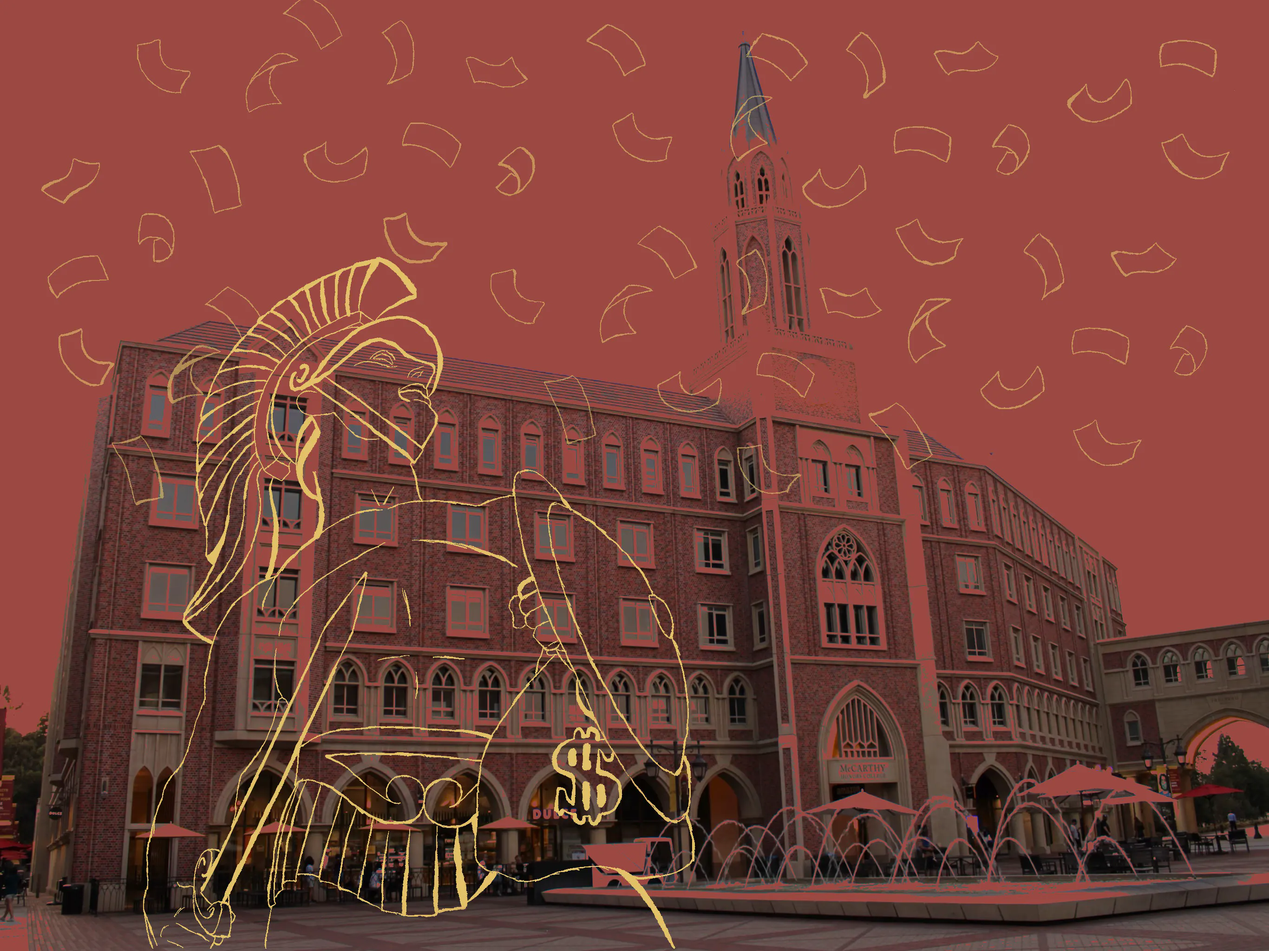
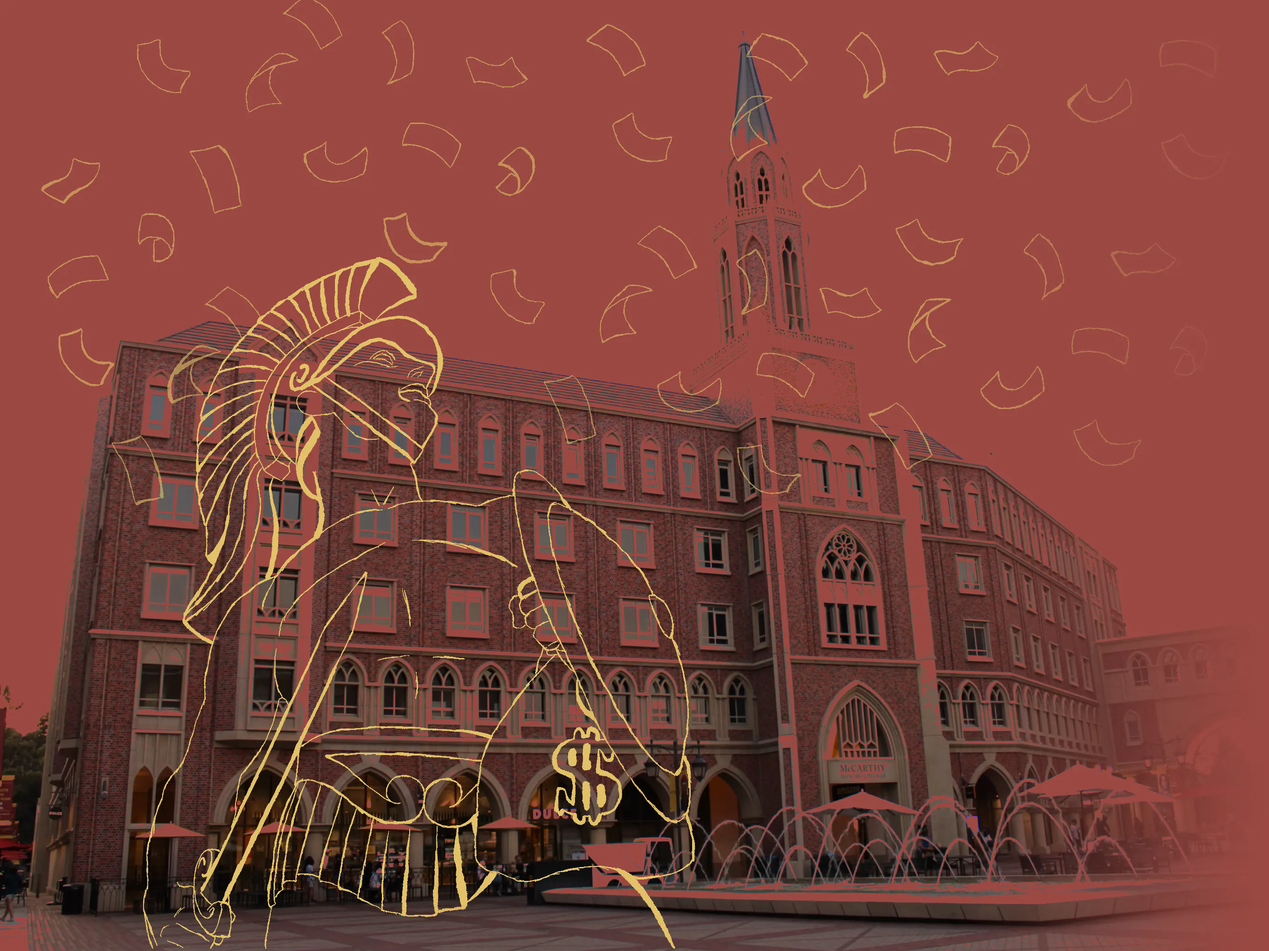
Use picture element for Tommy. Also WEBP

Changed region(s): [[0.8089, 0.5625, 1.0, 1.0]]

diff --git a/index.html b/index.html
@@ -34,7 +34,12 @@
 
 <body>
 
-	<header style='background-size: auto 100vh;background-image: url("img/tommy_village_WEB.jpg");'>
+	<header>
+		<picture>
+			<source srcset="img/tommy_village_WEB.webp" type="image/webp"/>
+			<source srcset="img/tommy_village_WEB.jpg" type="image/jpeg"/>
+			<img src="img/tommy_village_WEB.jpg">
+		</picture>
 		<section class="interactive_lede">
 			<div class="title1">
 				<h1>Tracking Tuition</h1>
@@ -71,11 +76,10 @@
 			$791,502,378</title></rect><text x="16" y="37.81717078308667" dy=".35em" text-anchor="start" style="stroke-width: 0; font-family: sans-serif; font-size: 15px; font-weight: 400; fill: rgb(0, 0, 0);">Institutional Support: $791,502,378</text></g><g class="node" transform="translate(328,508.23858446306235)"><rect height="30.49320950259593" width="10" id="r7" shape-rendering="crispEdges" style="fill: rgb(253, 208, 162); fill-opacity: 0.9; stroke-width: 0; stroke: rgb(123, 101, 79);"><title>Auxiliary Enterprises:
 			$319,107,000</title></rect><text x="16" y="15.246604751297966" dy=".35em" text-anchor="start" style="stroke-width: 0; font-family: sans-serif; font-size: 15px; font-weight: 400; fill: rgb(0, 0, 0);">Auxiliary Enterprises: $319,107,000</text></g><g class="node" transform="translate(328,558.7317939656583)"><rect height="117.26820603434167" width="10" id="r8" shape-rendering="crispEdges" style="fill: rgb(49, 163, 84); fill-opacity: 0.9; stroke-width: 0; stroke: rgb(24, 79, 41);"><title>Hospital Services:
 			$1,227,194,711</title></rect><text x="16" y="58.63410301717084" dy=".35em" text-anchor="start" style="stroke-width: 0; font-family: sans-serif; font-size: 15px; font-weight: 400; fill: rgb(0, 0, 0);">Hospital Services: $1,227,194,711</text></g></g></g></g></svg>				
-
 		</figure>
 		<section class="maintext">
 			<p id="madlib"></p>
-			<!--Make style diffrent than maintext-->
+			<!-- TKTK Make style diffrent than maintext-->
 		</section>
 		<hr>
 		<section class="maintext">

diff --git a/css/styles.css b/css/styles.css
@@ -27,6 +27,10 @@ body, html {
   font-family: 'Lato', sans-serif; 
 }
 
+body {
+  background-color: #9b4741 ;
+}
+
 h1, h2, h3, .pullquote {
   font-family: 'Open Sans', sans-serif;
 
@@ -36,16 +40,27 @@ header {
   width: 100%;
   /*position: sticky;*/
   top: 0;
-  z-index: -1;
-  background-color: #9b4741;
+  width: 100%;
+  height: 100%;
   /*max-height: 600px;*/
-  background-size: contain;
-  background-repeat: no-repeat;
+  
 }
 
 header img {
   /* this opacity makes the header image dark so you can read the headline text more easily. remove the opacity if you do not have your headline on top of the image.*/
   opacity: 0.6;
+}
+
+header picture {
+  width: 100%;
+}
+
+header picture img{
+  position: absolute;
+  height: 100vh;
+  width: auto;
+  opacity: 1;
+  z-index: -10;
 }
 
 .title1 {
@@ -274,6 +289,7 @@ header img {
   margin-bottom: 0;
   color: white;
   background: rgba(0, 0, 0, 0.7);
+  z-index: 1;
 }
 .interactive_lede p {
   font-size: 1.5em;
